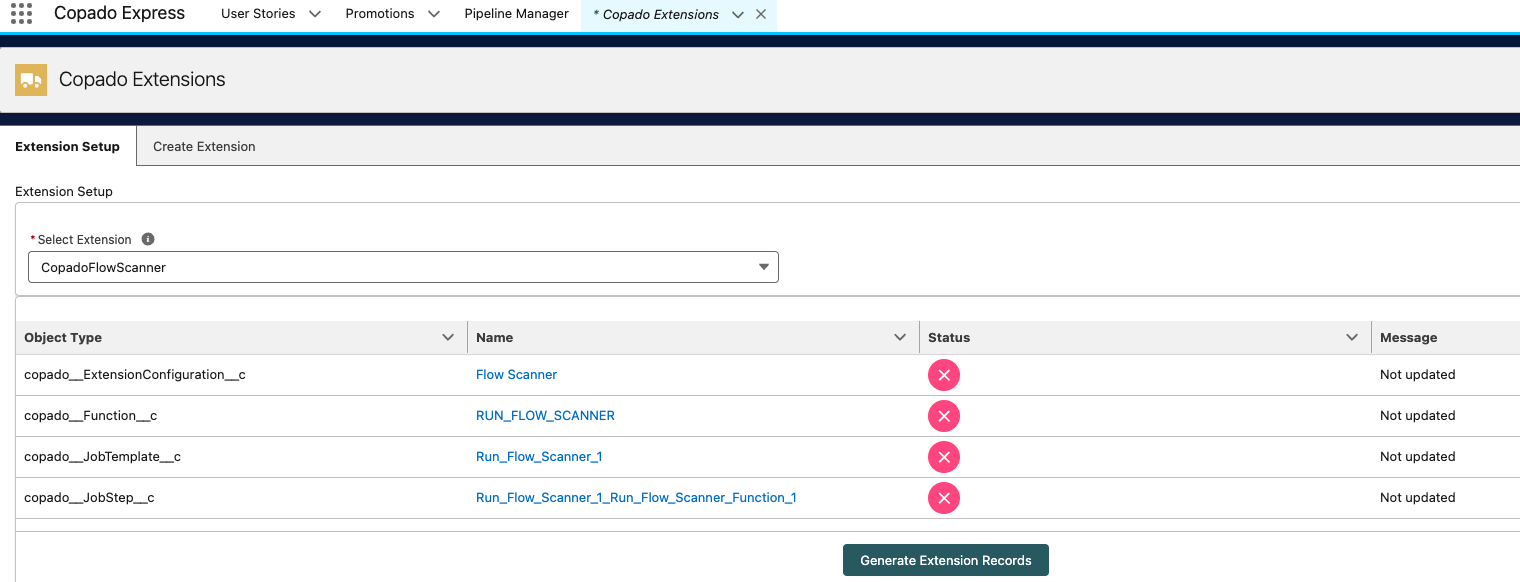
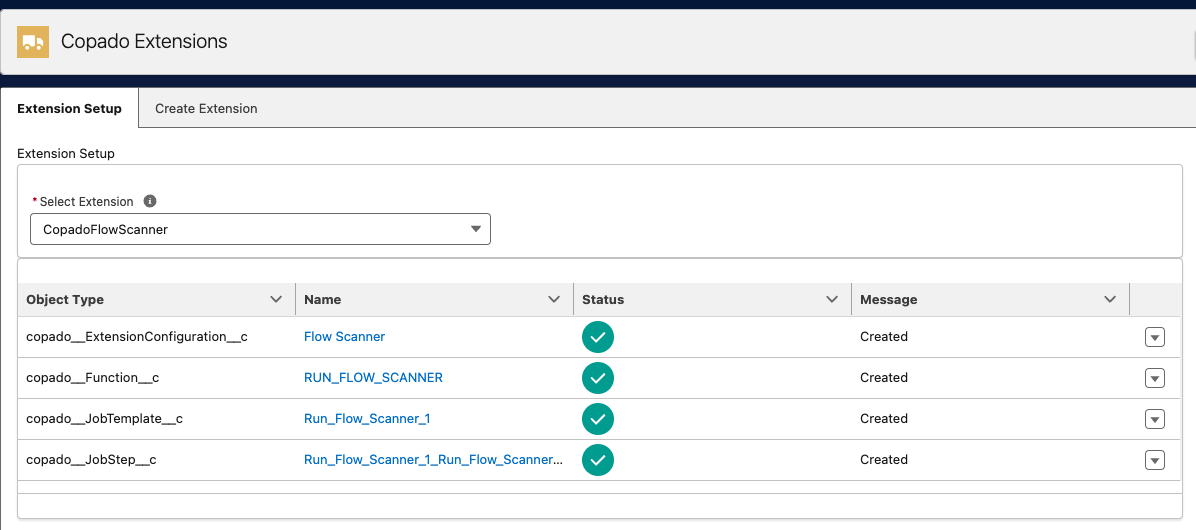
Updated docs, published new v. w/ severity param.

diff --git a/README.md b/README.md
@@ -4,13 +4,32 @@ With this project, you can use Lightining Flow Scanner as a quality gate within 
 
 Lightning Flow Scanner is a free and open-source SFDX Plugin that can perform static analysis on Salesforce Flows, Process Builders and Workflows to identify violations of industry best practices. Please [read more about the original sfdx plugin here.](https://github.com/Lightning-Flow-Scanner/lightning-flow-scanner-sfdx)
 
+## Rule overview
+Here's the Rule Overview [courtesy, the original repo](https://github.com/Lightning-Flow-Scanner/lightning-flow-scanner-sfdx?tab=readme-ov-file#rule-overview)
+
+| Rule       | Description |
+|--------------|:-----------|
+| **Outdated API Version** | Introducing newer API components may lead to unexpected issues with older versions of Flows, as they might not align with the underlying mechanics. Starting from API version 50.0, the 'Api Version' attribute has been readily available on the Flow Object. To ensure smooth operation and reduce discrepancies between API versions, it is strongly advised to regularly update and maintain them. |
+| **Copy API Name** | Maintaining multiple elements with a similar name, like 'Copy_X_Of_Element,' can diminish the overall readability of your Flow. When copying and pasting these elements, it's crucial to remember to update the API name of the newly created copy. |
+| **DML Statement In A Loop** |  To prevent exceeding Apex governor limits, it is advisable to consolidate all your database operations, including record creation, updates, or deletions, at the conclusion of the flow. |
+| **Duplicate DML Operation** |   When the flow executes database changes or actions between two screens, it's important to prevent users from navigating back between screens. Failure to do so may result in duplicate database operations being performed within the flow. |
+| **Hardcoded Id** |  Avoid hard-coding IDs as they are org-specific. Instead, pass them into variables at the start of the flow. You can achieve this by utilizing merge fields in URL parameters or employing a Get Records element. |
+| **Flow Naming Convention** |  The readability of a flow is of utmost importance. Establishing a naming convention for the Flow Name significantly enhances findability, searchability, and maintains overall consistency. It is advisable to include at least a domain and a brief description of the actions carried out in the flow, for instance, 'Service_OrderFulfillment'. |
+| **Missing Flow Description** |   Descriptions play a vital role in documentation. We highly recommend including details about where they are used and their intended purpose. |
+| **Missing Fault Path** |  At times, a flow may fail to execute a configured operation as intended. By default, the flow displays an error message to the user and notifies the admin who created the flow via email. However, you can customize this behavior by incorporating a Fault Path. |
+| **Missing Null Handler**      |   When a Get Records operation doesn't find any data, it returns null. To ensure data validation, utilize a decision element on the operation result variable to check for a non-null result. |
+| **SOQL Query In A Loop** |  To prevent exceeding Apex governor limits, it is advisable to consolidate all your SOQL queries at the conclusion of the flow. |
+| **Unconnected Element** |  Unconnected elements which are not being used by the Flow should be avoided to keep Flows efficient and maintainable. |
+| **Unused Variable**      |  To maintain the efficiency and manageability of your Flow, it's advisable to avoid including unconnected variables that are not in use. |
+
+**More information on the rules can be found in the [lfs-core module documentation](https://github.com/Lightning-Flow-Scanner/lightning-flow-scanner-core).**
 
 # Installing the Extension
 
 ## Pre-Requisites
 * Install Copado v21.14 or higher
 * Install Copado Quality Tools extension v1.42 or higher
-* Install the [latest version of Copado Flow Scanner](https://login.salesforce.com/packaging/installPackage.apexp?p0=04t8Z000000BoooQAC) from Copado's DevOps Exchange.
+* Install the [latest version of Copado Flow Scanner](https://login.salesforce.com/packaging/installPackage.apexp?p0=04t8Z000000Bop3QAC) from Copado's DevOps Exchange.
 
 ## Picklist Values
 
@@ -22,6 +41,21 @@ Lightning Flow Scanner is a free and open-source SFDX Plugin that can perform st
 Navigate to the “Copado Extensions” tab, select “CopadoFlowScanner” and press the button “Generate Extension Records”.
 
 ![Generate Extension Records](./images/generate-extension-records.png)
+
+## Configure Acceptance Criteria via a Function Parameter
+ ![Function Parameter](./images/function-parameter.png)
+
+`fail_on` - This parameter can take one of three rule severity values - `error`, `note` or `warning`. The default value of it is `error`. This parameter decides when should the Quality Gate fail.
+
+  - Setting it to `error` means - Succeed the Quality Gate, if their are no violations or they are only of type `warning` or `note`. Fail on violations of severity `error`.
+  - Setting it to `warning` means - Succeed the Quality Gate, if their are no violations or they are only of type or `note`. Fail on violations of severity `error` or `warning`.
+  - Setting it to `note` means - Succeed the Quality Gate, if their are no violations. Fail on any violations irrespective of severity.
+
+## How to set Severity of each rule?
+
+By default, all rules have a severity of `error`. If you need to customize individual rule severity, then, in the root of your repo you could create `.flow-scanner.json`. [Here's a sample file](./.flow-scanner.json)
+
+You can also configure `exceptions` for particular rules. [Read more details here.](https://github.com/Lightning-Flow-Scanner/lightning-flow-scanner-sfdx?tab=readme-ov-file#configuration)
 
 ## Configure the Quality Gate
 
@@ -51,6 +85,9 @@ Here are some screencaps of how the results look.
 ![Successful Commit](./images/successful-commit.png)
 ![No Violations](./images/no-violations.png)
 
+### Successful run with `warnings` and `note` type of violations and fail_on set to `error`
+![Success Note Warnings](./images/note-warning.png)
+
 ### Run with Violations
 ![Failed Commit](./images/failed-commit.png)
 ![Violations Modal](./images/violations-modal.png)
@@ -62,3 +99,4 @@ The Result record can be further opened to read the violations better, as well a
 ![Wrapped Text](./images/violations-wrapped-text.png)
 
 ![Search](./images/violations-search.png)
+
